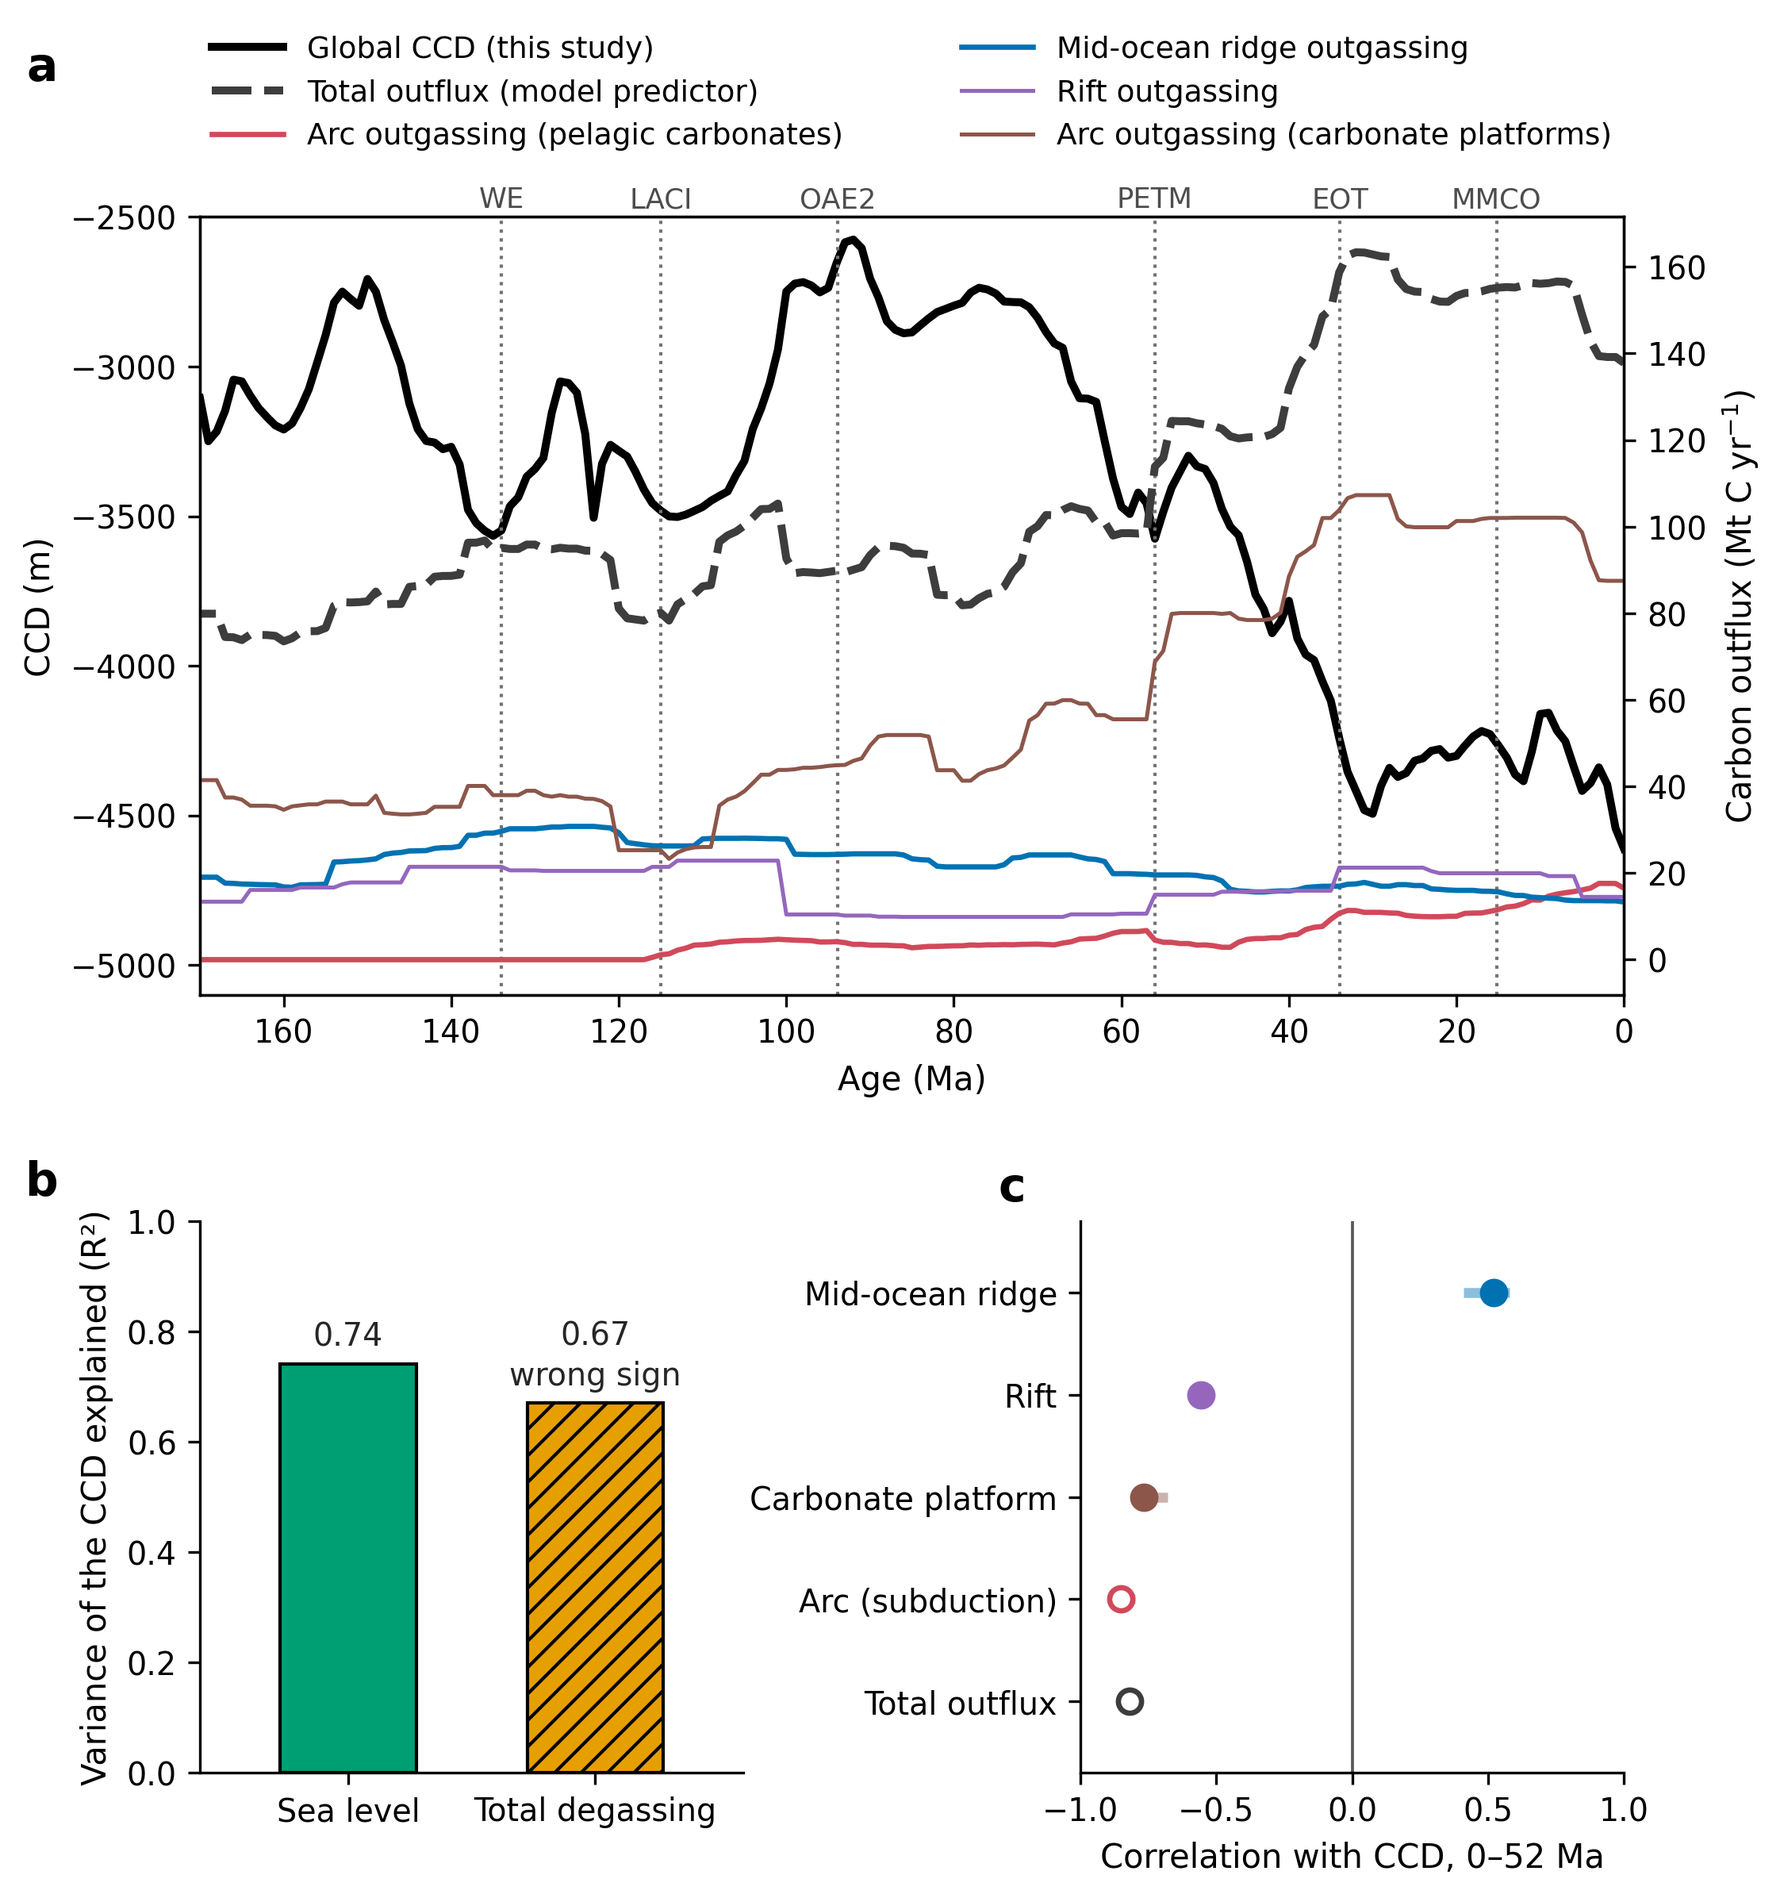
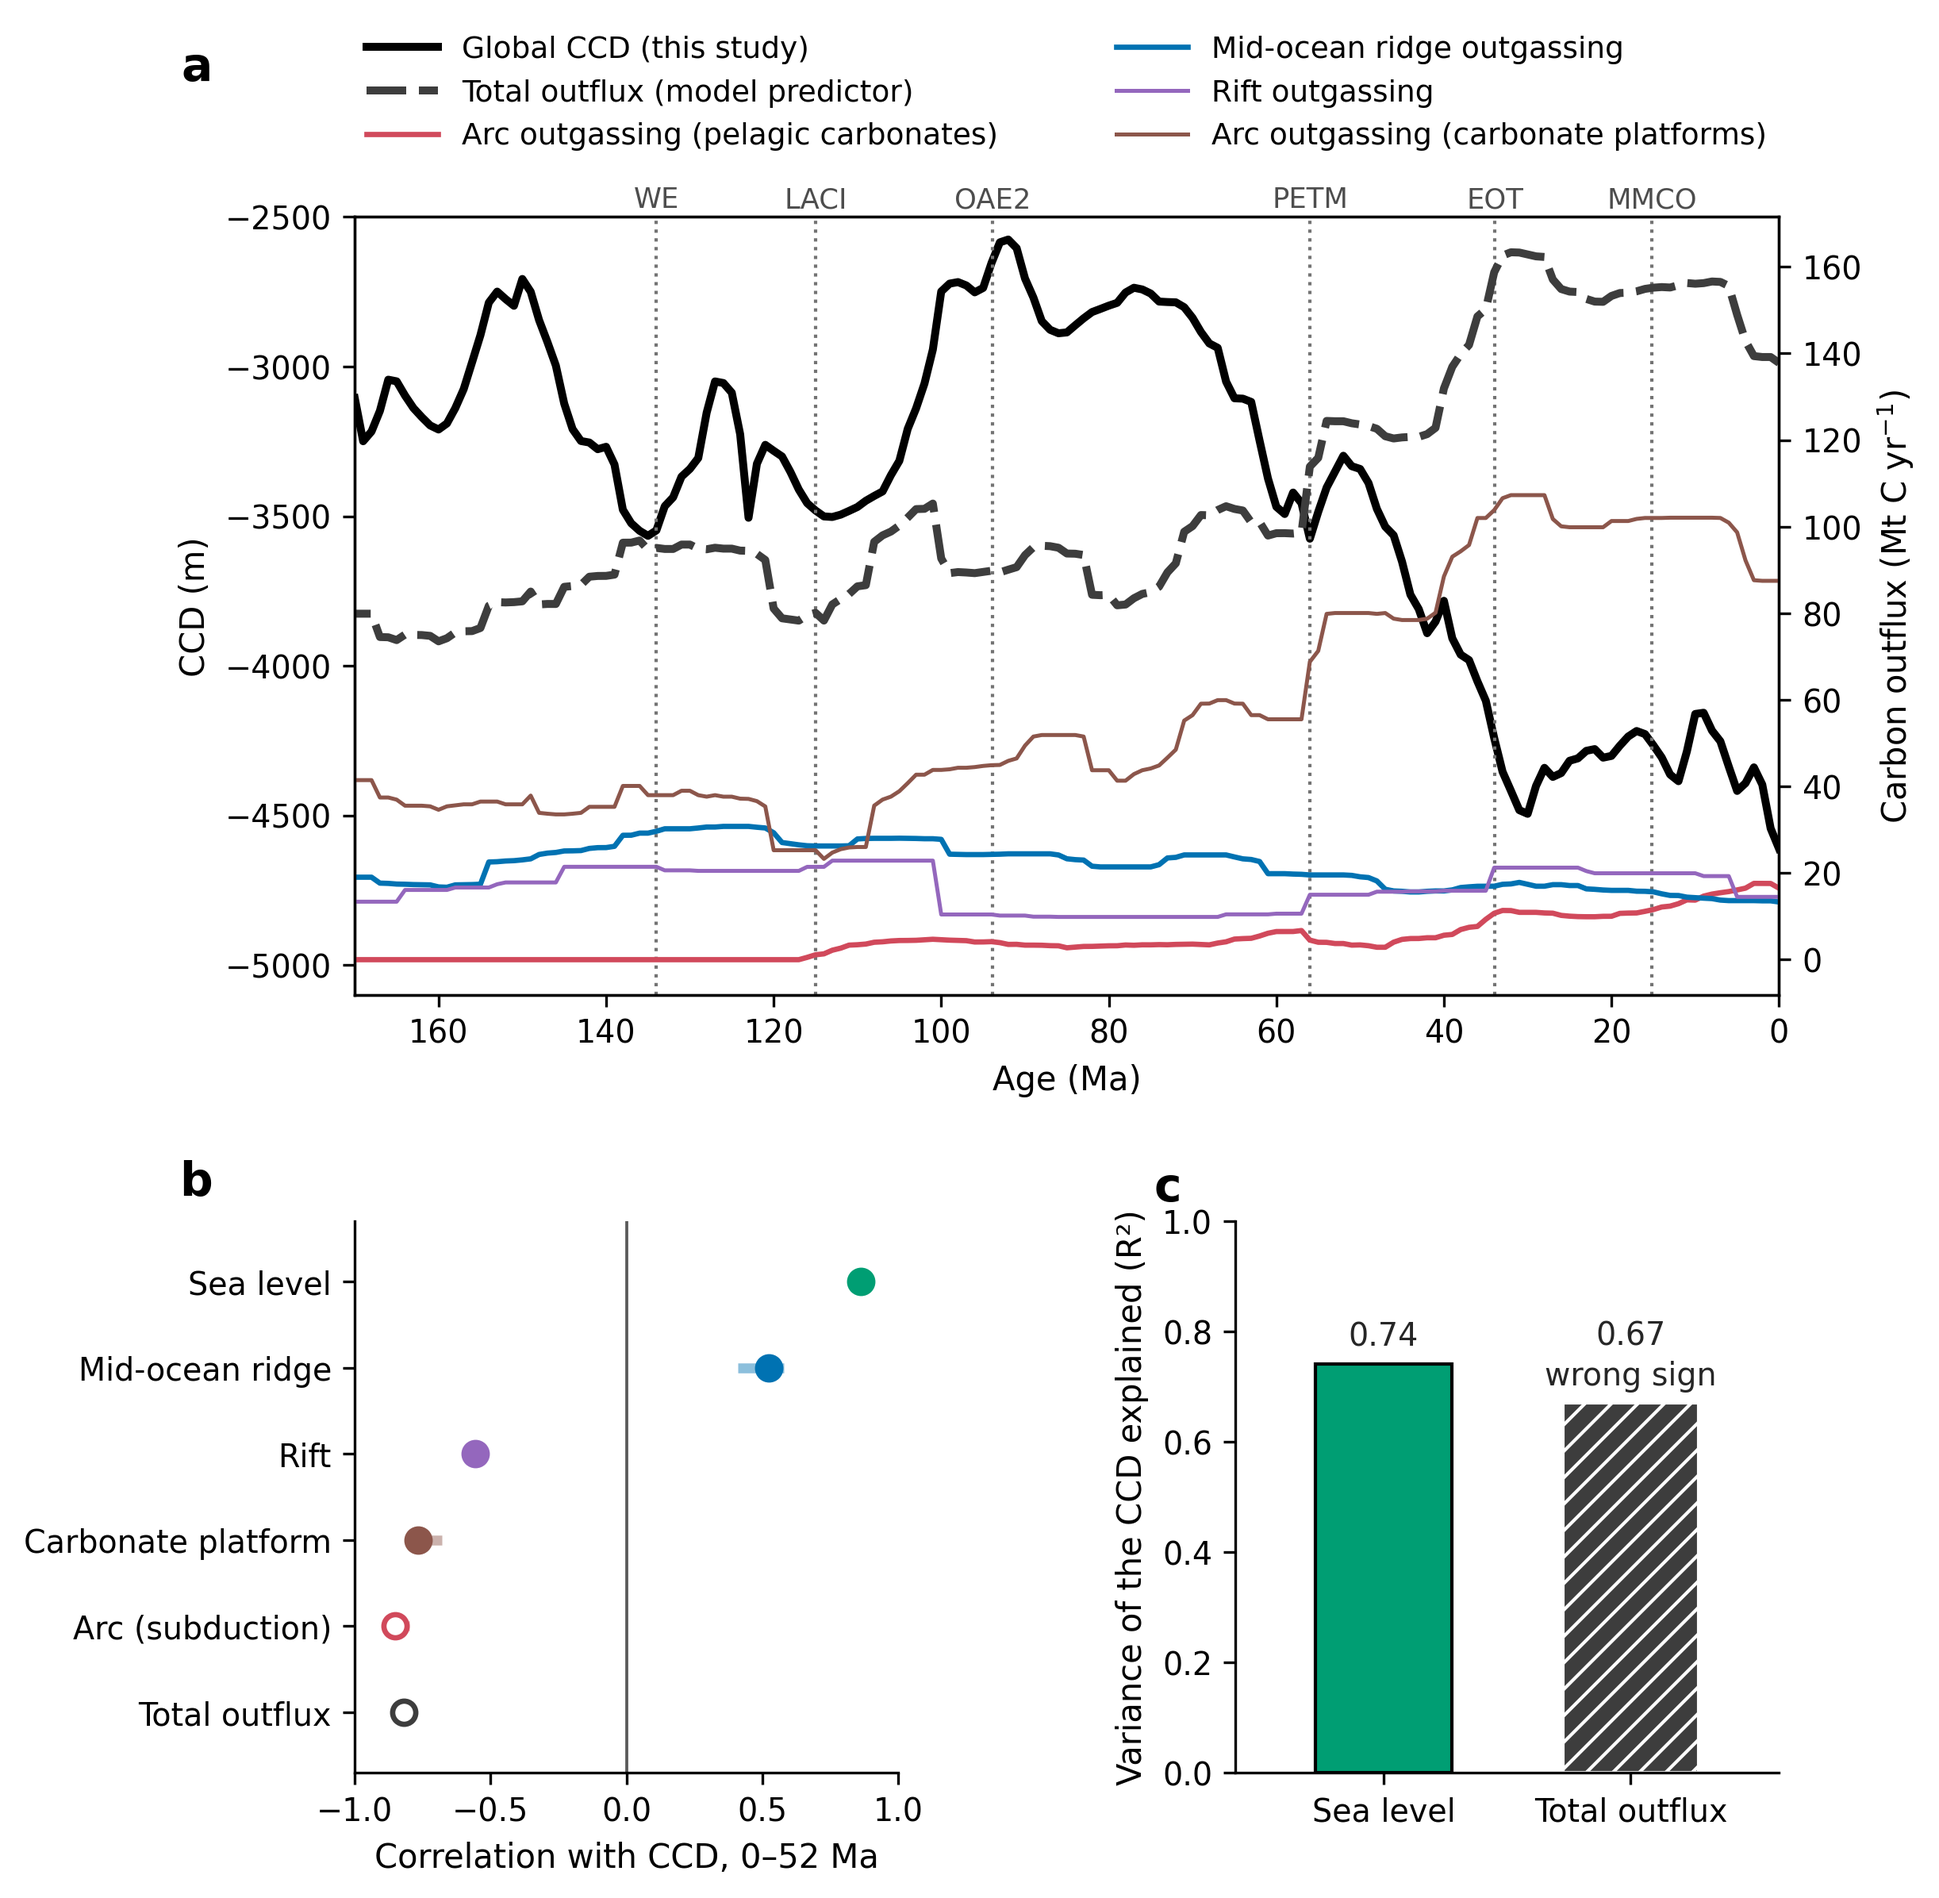
Figure 4: correlations before variance, with sea level among them
The correlation panel becomes (b) and the variance bars (c), so the sign of
each relationship is established before any variance is quoted. Sea level joins
the correlation panel as the reference the comparison is against, with no
scenario bar since it does not depend on the sedimentation-rate scenarios, and
every series now carries one colour across all three panels.

Claude-Session: https://claude.ai/code/session_01GG6eoxS3E2hq56pSKk2b7G

diff --git a/figure_scripts/make_fig4_combined.py b/figure_scripts/make_fig4_combined.py
@@ -2,8 +2,8 @@
 """Fig. 4 (combined):
    (a) global CCD against the recomputed solid-Earth carbon outflux, by component and
        in total, the total being the predictor the two-predictor model actually uses;
-   (b) incremental variance of the two predictors, 0-52 Ma;
-   (c) zero-lag correlation of each outflux component with the CCD, 0-52 Ma.
+   (b) zero-lag correlation of sea level and of each outflux component with the CCD;
+   (c) variance of the CCD each predictor explains on its own, 0-52 Ma.
 Reads attribution_matched_series.csv and component_correlations.csv, both written by
 attribution_closure_analysis.py, so the panels and the reported numbers cannot drift."""
 from pathlib import Path
@@ -33,9 +33,11 @@ if not _CCFILE.exists():
 CC = pd.read_csv(_CCFILE)
 age=D["age"].to_numpy(); ccd=-D["depth"].to_numpy()
 
-# One colour per outflux component, used by both panel (a) and panel (c).
-COL = {"Mid-ocean ridge":"#0072b2", "Rift":"#9467bd", "Carbonate platform":"#8c564b",
-       "Arc (subduction)":"#d1495b", "Total outflux":"#3d3d3d"}
+# One colour per series, used wherever that series appears: the curves in (a), the
+# markers in (b) and the bars in (c). Sea level appears only in (b) and (c).
+COL = {"Sea level":"#009e73", "Mid-ocean ridge":"#0072b2", "Rift":"#9467bd",
+       "Carbonate platform":"#8c564b", "Arc (subduction)":"#d1495b",
+       "Total outflux":"#3d3d3d"}
 PT_TICK, PT_LABEL, PT_LEG = 9.5, 10, 9
 
 # Panel (a) spans the width; (b) and (c) share the row below it. The lag panel is gone:
@@ -46,7 +48,9 @@ PT_TICK, PT_LABEL, PT_LEG = 9.5, 10, 9
 fig=plt.figure(figsize=(7.48,8.6))
 gs=fig.add_gridspec(2,2,height_ratios=[1.34,0.95],hspace=0.34,wspace=0.62,
                     top=0.835,bottom=0.075,left=0.095,right=0.895)
-axa=fig.add_subplot(gs[0,:]); axb1=fig.add_subplot(gs[1,0]); axc=fig.add_subplot(gs[1,1])
+# Correlations first, then the variance: the reader needs to see which fluxes point the
+# right way before being shown how much variance any of them accounts for.
+axa=fig.add_subplot(gs[0,:]); axc=fig.add_subplot(gs[1,0]); axb1=fig.add_subplot(gs[1,1])
 
 # ---- (a) CCD against the carbon outflux -------------------------------------
 axa.plot(age,ccd,color="black",lw=2.4,label="Global CCD (this study)")
@@ -84,10 +88,10 @@ axa.legend(l1+l2,la1+la2,fontsize=PT_LEG,loc="lower left",
            bbox_to_anchor=(0.0,1.07,1.0,0.16),mode="expand",ncol=2,
            frameon=False,borderaxespad=0.0,handlelength=2.4,columnspacing=1.4)
 
-# ---- (b) incremental variance ------------------------------------------------
+# ---- (c) variance each predictor explains on its own --------------------------
 def z(a): a=np.asarray(a,float); return (a-a.mean())/a.std()
 # CCD in the sense the figures plot it, so the standardised coefficients below carry the
-# same sign convention as panel (c): positive means the predictor rises as the CCD shoals.
+# same sign convention as panel (b): positive means the predictor rises as the CCD shoals.
 sub=D[D["age"]<=52]; Y=z(-sub["depth"])
 # Sea level and CO2 outgassing only. The pelagic-carbonate sink is not a third
 # independent factor: sea level is itself largely a proxy for the shift of carbonate
@@ -109,9 +113,9 @@ _r2_sl, _r2_dg = _r2(_sl), _r2(_dg)
 # is. Acidification by added CO2 requires a POSITIVE coefficient here, because the CCD is
 # in the sense the figures plot it; degassing takes a negative one, so its variance is
 # explained in the wrong direction and cannot support a CO2 control however large it is.
-_bars=axb1.bar(["Sea level","Total degassing"],[_r2_sl,_r2_dg],width=0.55,
-               color=["#009e73","#e69f00"],edgecolor="black")
-_bars[1].set_hatch("///")
+_bars=axb1.bar(["Sea level","Total outflux"],[_r2_sl,_r2_dg],width=0.55,
+               color=[COL["Sea level"],COL["Total outflux"]],edgecolor="black")
+_bars[1].set_hatch("///"); _bars[1].set_edgecolor("white")
 axb1.set_ylabel("Variance of the CCD explained (R²)",fontsize=PT_LABEL)
 axb1.set_ylim(0,1.0); axb1.set_xlim(-0.6,1.6); axb1.tick_params(labelsize=PT_TICK)
 # No standardised coefficients on the panel. They said only that the sign survives
@@ -125,7 +129,7 @@ axb1.text(1,_r2_dg+0.02,f"{_r2_dg:.2f}\nwrong sign",ha="center",va="bottom",
           fontsize=PT_TICK,color="0.15",linespacing=1.35)
 axb1.spines["top"].set_visible(False); axb1.spines["right"].set_visible(False)
 
-# ---- (c) correlation of each component with the CCD --------------------------
+# ---- (b) correlation of sea level and each outflux component with the CCD -----
 # Bars run from the lowest to the highest correlation across the model's three
 # carbonate sed-rate scenarios; the marker is the mean scenario. That range is a
 # sensitivity, not a confidence interval - see the note drawn in the panel.
@@ -165,8 +169,8 @@ print(f"  caption facts: positive = flux rises as the CCD shoals; "
 _LETTER_KW = dict(fontsize=14, fontweight="bold", va="bottom", ha="right")
 _LX = axa.get_position().x0 - 0.08
 fig.text(_LX, axa.get_position().y1 + 0.062, "a", **_LETTER_KW)
-fig.text(_LX, axb1.get_position().y1 + 0.008, "b", **_LETTER_KW)
-axc.text(-0.10, 1.02, "c", transform=axc.transAxes, **_LETTER_KW)
+fig.text(_LX, axc.get_position().y1 + 0.008, "b", **_LETTER_KW)
+axb1.text(-0.10, 1.02, "c", transform=axb1.transAxes, **_LETTER_KW)
 
 # ---- text-collision check ----------------------------------------------------
 fig.canvas.draw(); _r=fig.canvas.get_renderer()

diff --git a/figure_scripts/attribution_closure_analysis.py b/figure_scripts/attribution_closure_analysis.py
@@ -196,6 +196,14 @@ for _label, _base, _indep in _COMPONENTS:
     _rows.append({"component": _label, "ccd_independent": _indep,
                   "r": _r["mean"][0], "r_min_scenario": min(_all), "r_max_scenario": max(_all),
                   "n_effective": _r["mean"][1], "p_ar1": _r["mean"][2]})
+# Sea level goes in the same panel as the degassing components, as the reference the
+# whole comparison is against. It carries no scenario range, because it is an external
+# record and does not depend on the model's carbonate sedimentation-rate scenarios.
+_sl52 = D["sl"].to_numpy()[_m52]
+_r_sl, _neff_sl, _p_sl = ar1_corr(_depth52, _sl52)
+_rows.insert(0, {"component": "Sea level", "ccd_independent": True,
+                 "r": _r_sl, "r_min_scenario": _r_sl, "r_max_scenario": _r_sl,
+                 "n_effective": _neff_sl, "p_ar1": _p_sl})
 _cc = pd.DataFrame(_rows)
 _cc.to_csv(_HERE / "component_correlations.csv", index=False)
 print("\n================ COMPONENT CORRELATIONS (0-52 Ma) ================")
